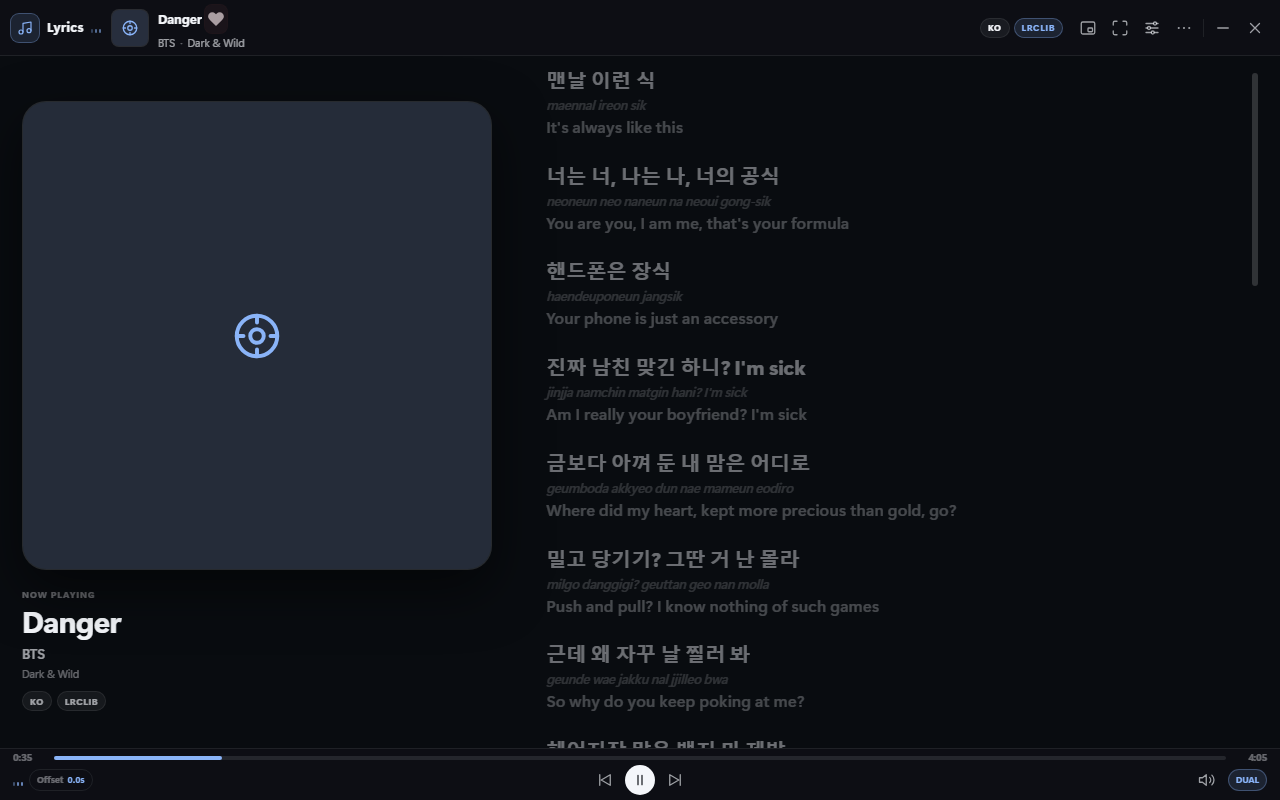
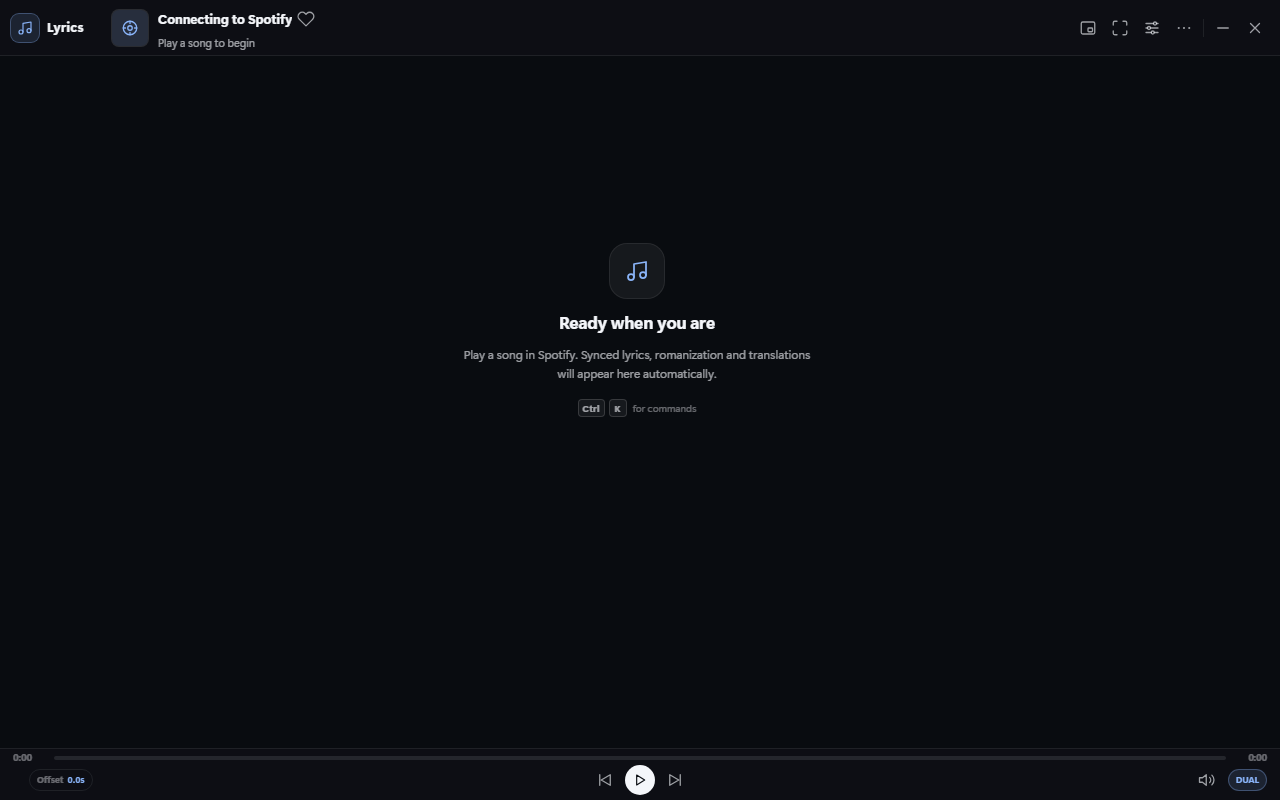
fix(lyrics): display original text for untranslated English lines in translation-only mode

diff --git a/web/app.js b/web/app.js
@@ -1032,6 +1032,7 @@
       var lineEl = document.createElement('div');
       lineEl.className = 'lyric-line';
       if (line.time < 0) lineEl.classList.add('untimed');
+      if (!line.translation || !line.translation.trim()) lineEl.classList.add('no-trans');
       lineEl.id = 'line-' + index;
       lineEl.dataset.index = String(index);
       lineEl.dataset.time = String(line.time);
@@ -1074,6 +1075,21 @@
       el.miniBar.setAttribute('aria-label', 'Mini player');
       return;
     }
+    if (AppState.lyricViewMode === 'trans-only') {
+      var text = (line.translation && line.translation.trim()) || line.original || '—';
+      el.miniOriginal.textContent = text;
+      el.miniRomaji.textContent = '';
+      el.miniTranslation.textContent = '';
+      el.miniBar.setAttribute('aria-label', text);
+      return;
+    }
+    if (AppState.lyricViewMode === 'orig-only') {
+      el.miniOriginal.textContent = line.original || '—';
+      el.miniRomaji.textContent = line.romaji || '';
+      el.miniTranslation.textContent = '';
+      el.miniBar.setAttribute('aria-label', line.original || '');
+      return;
+    }
     el.miniOriginal.textContent = line.original || '—';
     el.miniRomaji.textContent = line.romaji || '';
     el.miniTranslation.textContent = line.translation || '';
@@ -1093,6 +1109,7 @@
     AppState.lyrics.forEach(function (line, index) {
       var item = document.createElement('div');
       item.className = 'mini-line-item';
+      if (!line.translation || !line.translation.trim()) item.classList.add('no-trans');
       item.id = 'mini-line-' + index;
       item.dataset.index = String(index);
       if (index === AppState.activeIndex) item.classList.add('active');
@@ -1304,14 +1321,19 @@
 
     data.lines.forEach(function (item, index) {
       if (index >= AppState.lyrics.length) return;
+      var tr = String(item.translation || '').trim();
       AppState.lyrics[index].translation = String(item.translation || '');
       AppState.lyrics[index].romaji = String(item.romaji || '');
+      var lineEl = $('line-' + index);
+      if (lineEl) lineEl.classList.toggle('no-trans', !tr);
       var transEl = $('trans-' + index);
       if (transEl) transEl.textContent = AppState.lyrics[index].translation;
       var romajiEl = $('romaji-' + index);
       if (romajiEl) romajiEl.textContent = AppState.lyrics[index].romaji;
       var miniTrans = $('mini-trans-' + index);
       if (miniTrans) miniTrans.textContent = AppState.lyrics[index].translation;
+      var miniItem = $('mini-line-' + index);
+      if (miniItem) miniItem.classList.toggle('no-trans', !tr);
     });
 
     showTranslationStatus(false);
@@ -2746,6 +2768,12 @@
       button.setAttribute('aria-pressed', String(button.dataset.lyricsMode === next));
       button.classList.toggle('is-active', button.dataset.lyricsMode === next);
     });
+    if (AppState.activeIndex >= 0) {
+      updateMiniLine(AppState.activeIndex);
+    } else if (!AppState.isSynced && AppState.lyrics.length) {
+      var first = AppState.lyrics.find(function (line) { return line.original; });
+      if (first) setMiniFromLine(first);
+    }
     if (opts.persist !== false) persistSettings({ lyrics_view_mode: next });
     if (opts.announce) {
       showToast('View: ' + (next === 'both' ? 'Dual' : next === 'trans-only' ? 'Translation only' : 'Original only'), { icon: 'captions' });

diff --git a/web/style.css b/web/style.css
@@ -1012,6 +1012,47 @@ body.view-trans-only .lyric-line.editing .line-original {
   margin-bottom: 5px;
 }
 
+/* In translation-only mode, lines that have no separate translation (e.g. already in English)
+   fall back to displaying the original lyric text styled like a primary translation line. */
+body.view-trans-only .lyric-line.no-trans .line-original {
+  display: block;
+  margin-top: 0;
+  color: var(--text);
+  font-size: calc(28px * var(--font-scale));
+  font-weight: 700;
+  line-height: 1.3;
+}
+
+body.view-trans-only .lyric-line.no-trans.active .line-original {
+  font-size: calc(34px * var(--font-scale));
+  color: var(--text);
+}
+
+body.view-trans-only .lyric-line.no-trans .line-translation {
+  display: none;
+}
+
+/* Karaoke sweep for translation-only view */
+body.enable-sweep.view-trans-only .lyric-line.active .line-translation,
+body.enable-sweep.view-trans-only .lyric-line.no-trans.active .line-original {
+  background: linear-gradient(90deg,
+    var(--text) 0%,
+    var(--text) var(--line-progress, 0%),
+    var(--text-3) var(--line-progress, 0%),
+    var(--text-3) 100%);
+  -webkit-background-clip: text;
+  background-clip: text;
+  -webkit-text-fill-color: transparent;
+  color: transparent;
+}
+
+body.enable-sweep.view-trans-only .lyric-line.editing .line-translation,
+body.enable-sweep.view-trans-only .lyric-line.editing .line-original {
+  background: none;
+  -webkit-text-fill-color: currentColor;
+  color: var(--text);
+}
+
 body.view-orig-only .line-translation {
   display: none;
 }
@@ -1689,6 +1730,31 @@ body.mode-mini .app-shell {
   white-space: nowrap;
   overflow: hidden;
   text-overflow: ellipsis;
+}
+
+body.view-trans-only .mini-line-item .mini-orig {
+  display: none;
+}
+
+body.view-trans-only .mini-line-item .mini-trans {
+  color: var(--text);
+  font-size: 12px;
+  font-weight: 650;
+}
+
+body.view-trans-only .mini-line-item.no-trans .mini-orig {
+  display: block;
+  color: var(--text);
+  font-size: 12px;
+  font-weight: 650;
+}
+
+body.view-trans-only .mini-line-item.no-trans .mini-trans {
+  display: none;
+}
+
+body.view-orig-only .mini-line-item .mini-trans {
+  display: none;
 }
 
 body.mode-mini .toast-container {

diff --git a/scripts/smoke_ui.py b/scripts/smoke_ui.py
@@ -43,6 +43,7 @@ SAMPLE_LINES = [
     {"time": 62.0, "text": "장난해 너? 도대체 내가 뭐야", "translation": "Are you kidding? What on earth am I to you?", "romaji": "jangnanhae neo? dodaeche naega mwoya"},
     {"time": 66.0, "text": "만만해 uh? 날 갖고 노는 거야", "translation": "Am I that easy? Are you playing with me?", "romaji": "manmanhae uh? nal gatgo noneun geoya"},
     {"time": 70.0, "text": "너 지금 위험해, 왜 나를 시험해", "translation": "You're in danger right now, why are you testing me?", "romaji": "neo jigeum wiheomhae, wae nareul siheomhae"},
+    {"time": 74.0, "text": "Can't touch this, yeah you know it", "translation": "", "romaji": ""},
 ]
 
 
@@ -138,7 +139,7 @@ class SmokeRequestHandler(http.server.SimpleHTTPRequestHandler):
 
               // Feed scenario data after init
               setTimeout(function() {{
-                if (scenario === 'synced' || scenario === 'split' || scenario === 'mini' || scenario === 'palette' || scenario === 'settings' || scenario === 'search') {{
+                if (scenario === 'synced' || scenario === 'split' || scenario === 'mini' || scenario === 'palette' || scenario === 'settings' || scenario === 'search' || scenario === 'trans_only') {{
                   window.updateTrack({{
                     title: 'Danger',
                     artist: 'BTS',
@@ -168,6 +169,9 @@ class SmokeRequestHandler(http.server.SimpleHTTPRequestHandler):
                     document.body.classList.add('mode-fullscreen', 'layout-split');
                   }} else if (scenario === 'mini') {{
                     document.body.classList.add('mode-mini');
+                  }} else if (scenario === 'trans_only') {{
+                    document.body.classList.remove('view-both', 'view-orig-only');
+                    document.body.classList.add('view-trans-only');
                   }} else if (scenario === 'palette') {{
                     var cp = document.getElementById('commandPalette');
                     if (cp) {{
@@ -237,6 +241,7 @@ def run_smoke():
         ("palette", 480, 720, AUDIT_DIR / "05_command_palette.png"),
         ("settings", 480, 720, AUDIT_DIR / "06_settings.png"),
         ("search", 480, 720, AUDIT_DIR / "07_manual_search.png"),
+        ("trans_only", 480, 720, AUDIT_DIR / "08_view_trans_only.png"),
     ]
 
     for name, w, h, out_path in scenarios:
